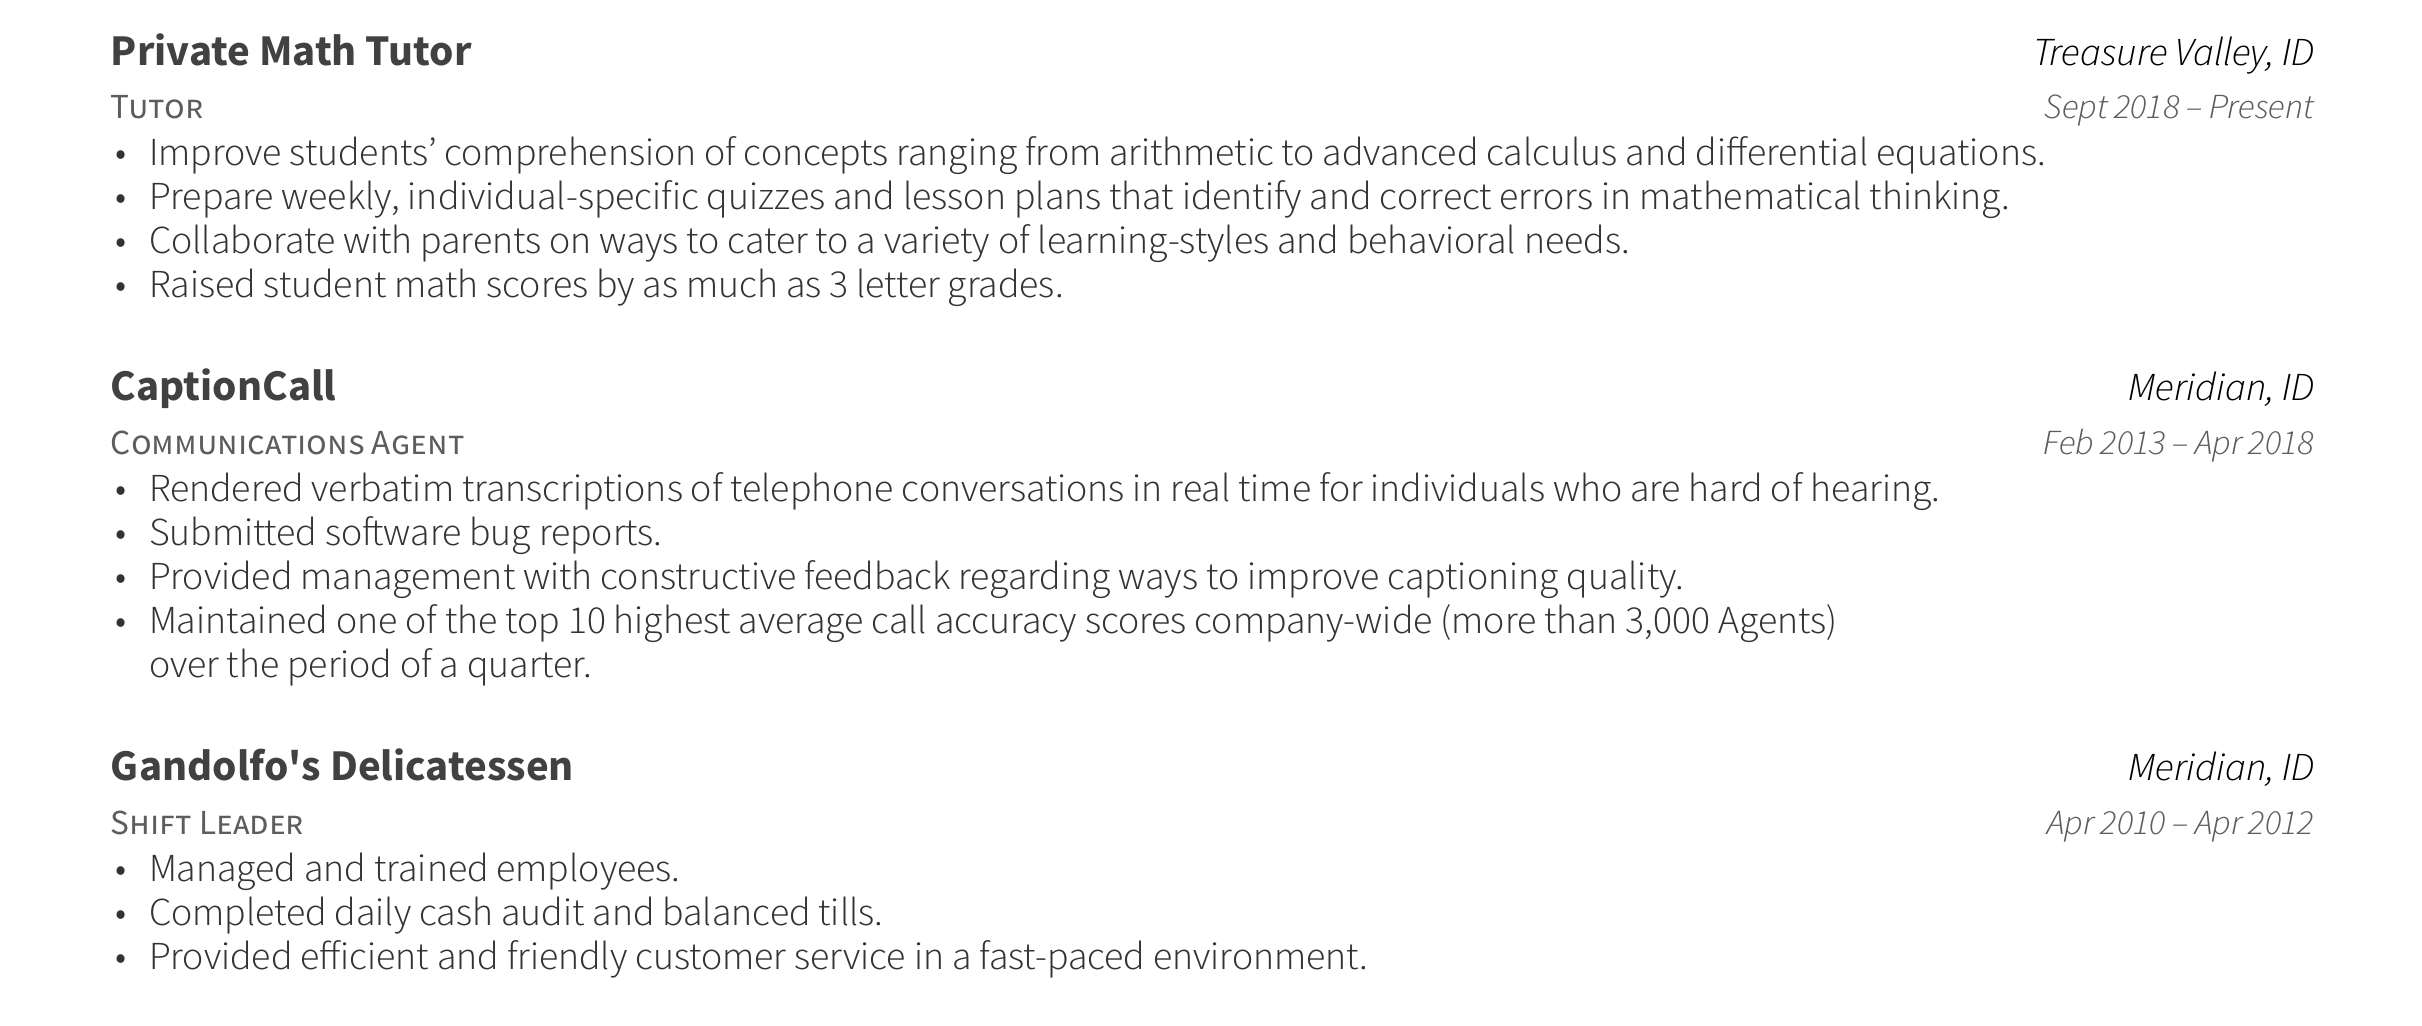
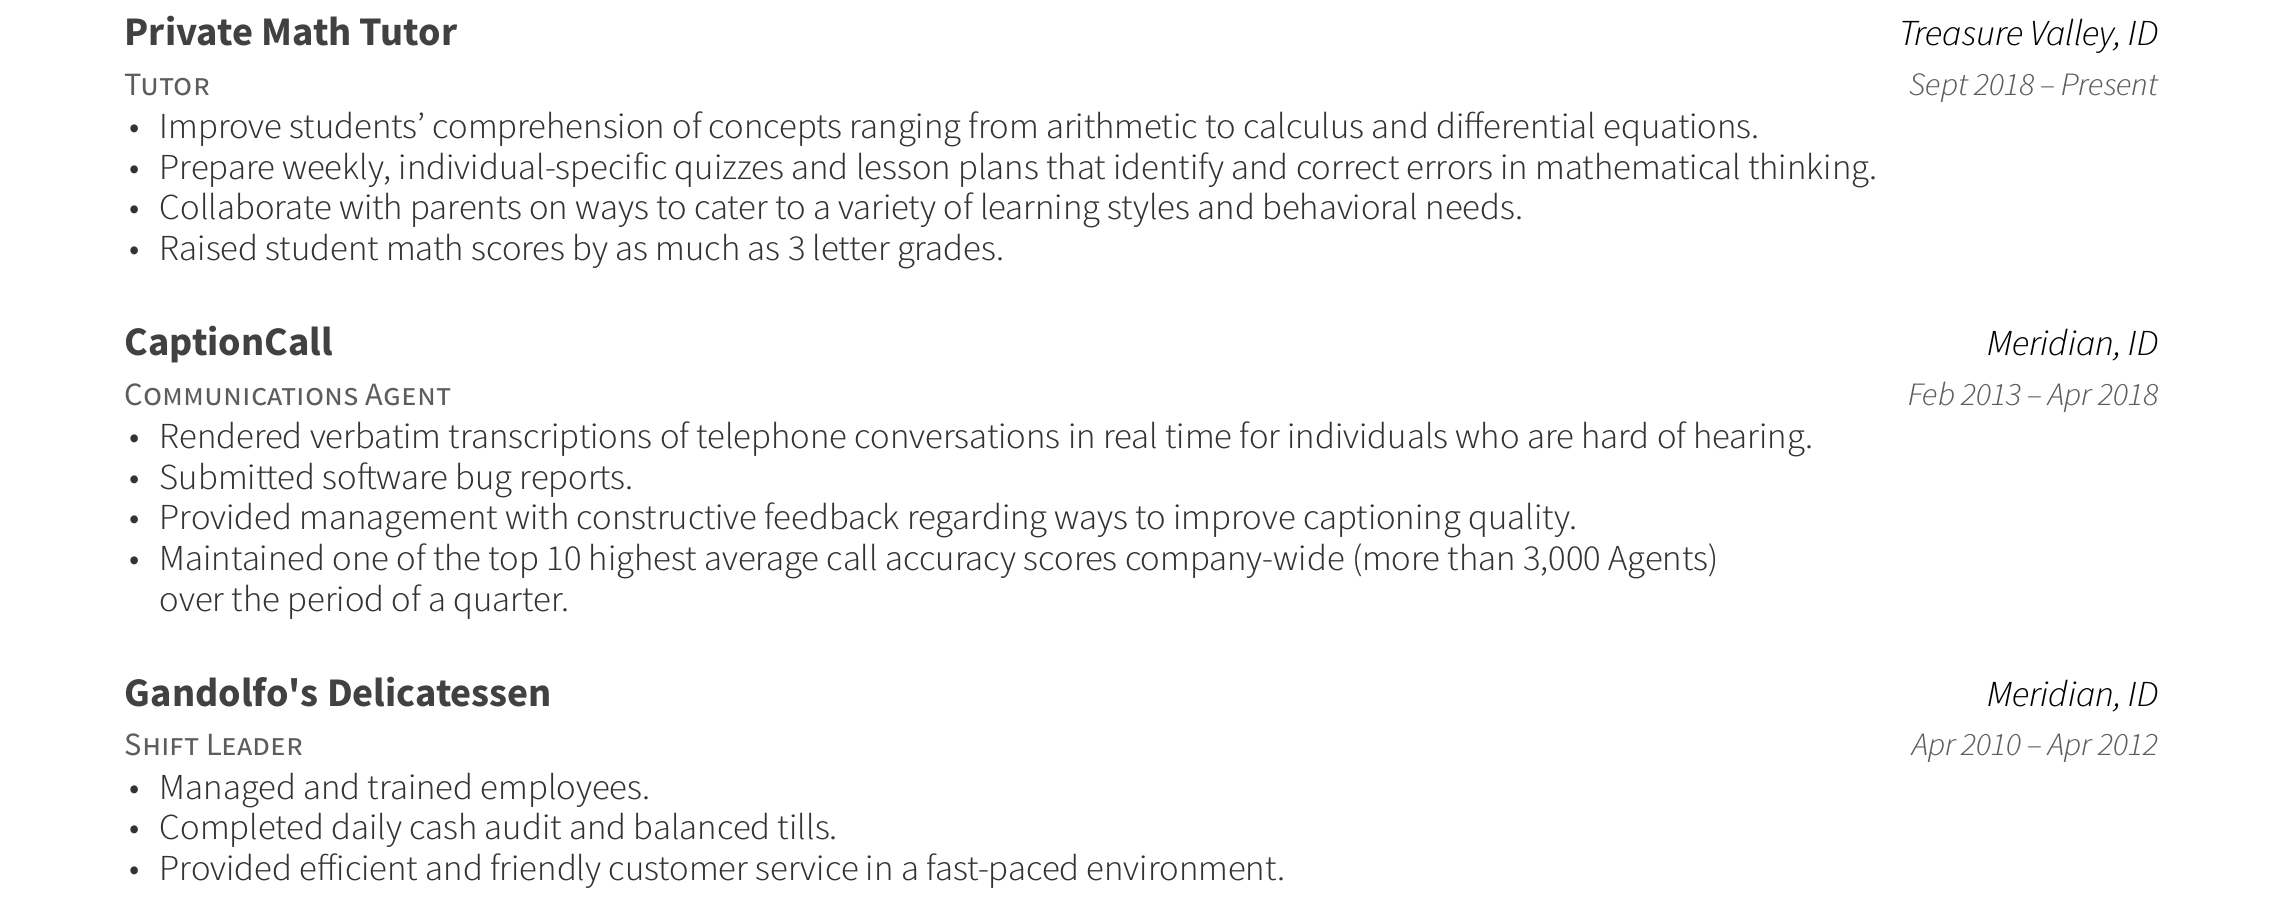
replace work experience img with text

diff --git a/index.html b/index.html
@@ -49,7 +49,7 @@
 
                     <div class="projects">
                         <div class="img-container">
-                            <a href="https://morning-island-74563.herokuapp.com/"><img src="assets/facebook.png" alt="Fake Facebook" height="500" width="392"></a>
+                            <a href="https://morning-island-74563.herokuapp.com/"><img src="assets/facebook.png" alt="Facebook Demo" height="500" width="392"></a>
                         </div>
                         <div class="description-container">
                             <h3 class="headings sliding-middle-out"><a href="https://morning-island-74563.herokuapp.com/">Facebook Demo</a></h3>
@@ -57,7 +57,7 @@
                             <br>
                             <ul>
                                 <li>Bare-bones social media app modeled after Facebook and implemented with Ruby on Rails</li>
-                                <li>Sign up with your email or connect with your Facebook account</li> 
+                                <li>Sign up with your email or connect with your Facebook account (temporarily disabled while FB verifies my account -- 07/12/19)</li> 
                                 <li>Post text statuses and comments</li> 
                                 <li>Send and confirm friend requests</li>
                                 <li>View a status feed containing posts from your friends</li>
@@ -81,7 +81,7 @@
                             <a class="github-link" href="https://github.com/ericmailr/odin-flight-booker"><i class="fab fa-github"></i> github</a>
                             <br>
                             <ul>
-                                <li>One-way fake flight booker implemented with Ruby on Rails</li>
+                                <li>One-way flight booker demo implemented with Ruby on Rails</li>
                                 <li>Dropdown form search</li> 
                                 <li>Pick a flight and submit info for booking</li> 
                             </ul>
@@ -174,7 +174,51 @@
             <div class="sections">
                 <h2 class="headings main-headings">Work Experience</h2>
                 <div class="section-container" id="experience-container">
-                    <div class="img-container"><img src="assets/workexperience.png" alt="work history"></div> 
+                    <div>
+                    <ul id="job-list">
+                        <li>
+                            <div>
+                                <h3> Private Math Tutor </h3><span class="locations-worked"><i>Treasure Valley, ID</i></span> 
+                            </div>
+                            <div>
+                                <h4> Tutor </h4> <span><i>Sept 2018 - Present</i></span>
+                            </div>
+                            <ul class="duties-list">
+                                <li>Improve students’ comprehension of concepts ranging from arithmetic to calculus and differential equations.</li> 
+                                <li>Prepare weekly, individual-specific quizzes and lesson plans that identify and correct errors in mathematical thinking.</li> 
+                                <li>Collaborate with parents on ways to cater to a variety of learning styles and behavioral needs.</li> 
+                                <li>Raised student math scores by as much as 3 letter grades.</li> 
+                            </ul>
+                        </li>
+                        <li>
+                            <div>
+                                <h3> CaptionCall </h3><span class="locations-worked"><i>Meridian, ID</i></span> 
+                            </div>
+                            <div>
+                                <h4> Communications Agent </h4> <span><i>Feb 2013 - April 2018</i></span>
+                            </div>
+                            <ul class="duties-list">
+                                <li>Rendered verbatim transcriptions of telephone conversations in real time for individuals who are hard of hearing.</li> 
+                                <li>Submitted software bug reports.</li> 
+                                <li>Provided management with constructive feedback regarding ways to improve captioning quality.</li> 
+                                <li>Maintained one of the top 10 highest average call accuracy scores company-wide (more than 3,000 Agents) over the<br> period of a quarter.</li> 
+                            </ul>
+                        </li>
+                        <li>
+                            <div>
+                                <h3> Gandolfo's Delicatessen </h3><span class="locations-worked"><i>Meridian, ID</i></span> 
+                            </div>
+                            <div>
+                                <h4> Shift Leader </h4> <span><i>Apr 2010 - Apr 2012</i></span>
+                            </div>
+                            <ul class="duties-list">
+                                <li>Managed and trained employees.</li>
+                                <li>Completed daily cash audit and balanced tills.</li>
+                                <li>Provided efficient and friendly customer service in a fast-paced environment.</li>
+                            </ul>
+                        </li>
+                    </ul>
+                    </div>
                 </div>
             </div>
 

diff --git a/styles.css b/styles.css
@@ -108,6 +108,11 @@ nav ul li {
     font-size: 1.2em;
 }
 
+/** attempt to make entire li clickable in safari **/
+nav ul li a {
+    display: block;
+}
+
 nav ul li:hover {
     background-color: rgba(0,0,0,.7)
 }
@@ -287,6 +292,45 @@ h4 {
 .skills > li {
     display: list-item;
     margin: 5px 80px;
+}
+
+#experience-container > div {
+    width: 90%;
+    margin: auto;
+    margin-top: 50px;
+}
+
+#job-list {
+    list-style: none;
+    width: 100%;
+}
+
+#job-list > li {
+    margin-bottom: 60px;
+}
+
+#job-list li div {
+    display: flex;
+    justify-content: space-between;
+}
+
+.locations-worked {
+    font-size: 1.2em;
+}
+
+#job-list h3 {
+    text-align: left;
+    font-size: 1.3em;
+    padding: 0;
+    margin: 0;
+}
+
+.duties-list {
+    margin-left: 20px;
+}
+
+.duties-list > li {
+    margin: 15px 0;
 }
 
 #about-container {

diff --git a/script.js b/script.js
@@ -30,7 +30,7 @@ const updateNavLinks = () => {
         addActiveClass(skillsLink);
     }
 
-    if (windowTop + 300 >= experienceContainer.offsetTop) {
+    if (windowTop + 400 >= experienceContainer.offsetTop) {
         addActiveClass(experienceLink);
     }
 

diff --git a/README.md b/README.md
@@ -6,6 +6,4 @@ Todo: Underline extra project link when hovering over extra project image
 
 safari nav links only select over text
 
-not "fake"
-
 resize content for smaller window
